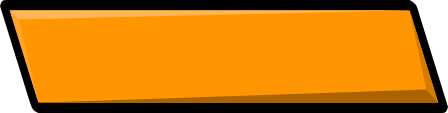
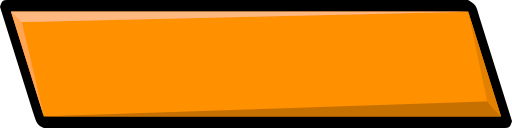
Fix up spacing issues - NPoT textures were messing up border spacing - Borders were defined as the wrong size - Padding is now also scale-dependent

diff --git a/src/guiengine/widgets/ribbon_widget.cpp b/src/guiengine/widgets/ribbon_widget.cpp
@@ -162,16 +162,16 @@ void RibbonWidget::add()
     for (int i=0; i<subbuttons_amount; i++)
     {
         // Get these ints for easy later use
-        const int VERT_MARGIN   = round(SkinConfig::getValue(SkinConfig::MARGIN, WTYPE_RIBBON, getRibbonType(), SkinConfig::VERTICAL));
-        const int VERT_PADDING  = round(SkinConfig::getValue(SkinConfig::PADDING, WTYPE_RIBBON, getRibbonType(), SkinConfig::VERTICAL));
+        const int HORZ_MARGIN  = round(SkinConfig::getValue(SkinConfig::MARGIN, WTYPE_RIBBON, getRibbonType(), SkinConfig::HORIZONTAL));
+        const int VERT_MARGIN  = round(SkinConfig::getValue(SkinConfig::MARGIN, WTYPE_RIBBON, getRibbonType(), SkinConfig::VERTICAL));
 
         int TOP_BORDER    = round(SkinConfig::getValue(SkinConfig::BORDER, WTYPE_RIBBON, getRibbonType(), SkinConfig::TOP));
         int BOTTOM_BORDER = round(SkinConfig::getValue(SkinConfig::BORDER, WTYPE_RIBBON, getRibbonType(), SkinConfig::BOTTOM));
         int LEFT_BORDER   = round(SkinConfig::getValue(SkinConfig::BORDER, WTYPE_RIBBON, getRibbonType(), SkinConfig::LEFT));
         int RIGHT_BORDER  = round(SkinConfig::getValue(SkinConfig::BORDER, WTYPE_RIBBON, getRibbonType(), SkinConfig::RIGHT));
 
-        const int HORZ_MARGIN   = round(SkinConfig::getValue(SkinConfig::MARGIN, WTYPE_RIBBON, getRibbonType(), SkinConfig::HORIZONTAL));
-        const int HORZ_PADDING  = round(SkinConfig::getValue(SkinConfig::PADDING, WTYPE_RIBBON, getRibbonType(), SkinConfig::HORIZONTAL));
+        int HORZ_PADDING  = round(SkinConfig::getValue(SkinConfig::PADDING, WTYPE_RIBBON, getRibbonType(), SkinConfig::HORIZONTAL));
+        int VERT_PADDING  = round(SkinConfig::getValue(SkinConfig::PADDING, WTYPE_RIBBON, getRibbonType(), SkinConfig::VERTICAL));
 
         // ---- tab ribbons
         if (getRibbonType() == RIBBON_TABS)
@@ -199,9 +199,6 @@ void RibbonWidget::add()
 
             rect<s32> tab_rect_abs;
 
-            Log::info("QCDebug", "VERT_MARGIN: %i", VERT_MARGIN);
-            Log::info("QCDebug", "HORZ_MARGIN: %i", HORZ_MARGIN);
-
             if (message.size() == 0)
             {
                 tab_rect_abs = rect<s32>(widget_x - small_tab/2 + HORZ_MARGIN, VERT_MARGIN,
@@ -213,11 +210,25 @@ void RibbonWidget::add()
                                          widget_x + large_tab/2 - HORZ_MARGIN, m_h - VERT_MARGIN);
             }
 
-            // Once height is available to us, adjust for border scaling
-            //TOP_BORDER    = round( GUIEngine::getSkin()->getScalingFactor("tab::neutral", tab_rect_abs.getHeight()) * (float)TOP_BORDER    );
-            //BOTTOM_BORDER = round( GUIEngine::getSkin()->getScalingFactor("tab::neutral", tab_rect_abs.getHeight()) * (float)BOTTOM_BORDER );
-            //LEFT_BORDER   = round( GUIEngine::getSkin()->getScalingFactor("tab::neutral", tab_rect_abs.getHeight()) * (float)LEFT_BORDER   );
-            //RIGHT_BORDER  = round( GUIEngine::getSkin()->getScalingFactor("tab::neutral", tab_rect_abs.getHeight()) * (float)RIGHT_BORDER  );
+            // Once height is available to us, adjust for scaling
+            TOP_BORDER    = round( GUIEngine::getSkin()->getScalingFactor("tab::neutral", tab_rect_abs.getHeight()) * (float)TOP_BORDER    );
+            BOTTOM_BORDER = round( GUIEngine::getSkin()->getScalingFactor("tab::neutral", tab_rect_abs.getHeight()) * (float)BOTTOM_BORDER );
+            LEFT_BORDER   = round( GUIEngine::getSkin()->getScalingFactor("tab::neutral", tab_rect_abs.getHeight()) * (float)LEFT_BORDER   );
+            RIGHT_BORDER  = round( GUIEngine::getSkin()->getScalingFactor("tab::neutral", tab_rect_abs.getHeight()) * (float)RIGHT_BORDER  );
+
+            HORZ_PADDING  = round( GUIEngine::getSkin()->getScalingFactor("tab::neutral", tab_rect_abs.getHeight()) * (float)HORZ_PADDING );
+            VERT_PADDING  = round( GUIEngine::getSkin()->getScalingFactor("tab::neutral", tab_rect_abs.getHeight()) * (float)VERT_PADDING );
+
+            Log::info("QCDebug", "VERT_MARGIN:   %i", VERT_MARGIN);
+            Log::info("QCDebug", "HORZ_MARGIN:   %i", HORZ_MARGIN);
+
+            Log::info("QCDebug", "TOP_BORDER:    %i", TOP_BORDER);
+            Log::info("QCDebug", "BOTTOM_BORDER: %i", BOTTOM_BORDER);
+            Log::info("QCDebug", "LEFT_BORDER:   %i", LEFT_BORDER);
+            Log::info("QCDebug", "RIGHT_BORDER:  %i", RIGHT_BORDER);
+
+            Log::info("QCDebug", "VERT_PADDING:  %i", VERT_PADDING);
+            Log::info("QCDebug", "HORZ_PADDING:  %i", HORZ_PADDING);
 
             // Used to position sub-elements, coords needs to be relative to tab_rect_abs
             rect<s32> tab_contents_rect = rect<s32>(LEFT_BORDER + HORZ_PADDING,
@@ -327,19 +338,33 @@ void RibbonWidget::add()
             IGUIButton * tab = NULL;
 
             rect<s32> tab_rect_abs = rect<s32>(widget_x - (tab_width/2) - HORZ_MARGIN, widget_y + VERT_MARGIN,
-                                             widget_x + (tab_width/2) + HORZ_MARGIN, widget_y + one_button_height - VERT_MARGIN);
+                                               widget_x + (tab_width/2) + HORZ_MARGIN, widget_y + one_button_height - VERT_MARGIN);
 
-            // Once height is available to us, adjust for border scaling
-            TOP_BORDER    *= GUIEngine::getSkin()->getScalingFactor("verticalTab::neutral", tab_rect_abs.getHeight());
-            BOTTOM_BORDER *= GUIEngine::getSkin()->getScalingFactor("verticalTab::neutral", tab_rect_abs.getHeight());
-            LEFT_BORDER   *= GUIEngine::getSkin()->getScalingFactor("verticalTab::neutral", tab_rect_abs.getHeight());
-            RIGHT_BORDER  *= GUIEngine::getSkin()->getScalingFactor("verticalTab::neutral", tab_rect_abs.getHeight());
+            // Once height is available to us, adjust for scaling
+            TOP_BORDER    = round( GUIEngine::getSkin()->getScalingFactor("verticalTab::neutral", tab_rect_abs.getHeight()) * (float)TOP_BORDER    );
+            BOTTOM_BORDER = round( GUIEngine::getSkin()->getScalingFactor("verticalTab::neutral", tab_rect_abs.getHeight()) * (float)BOTTOM_BORDER );
+            LEFT_BORDER   = round( GUIEngine::getSkin()->getScalingFactor("verticalTab::neutral", tab_rect_abs.getHeight()) * (float)LEFT_BORDER   );
+            RIGHT_BORDER  = round( GUIEngine::getSkin()->getScalingFactor("verticalTab::neutral", tab_rect_abs.getHeight()) * (float)RIGHT_BORDER  );
+
+            HORZ_PADDING  = round( GUIEngine::getSkin()->getScalingFactor("verticalTab::neutral", tab_rect_abs.getHeight()) * (float)HORZ_PADDING  );
+            VERT_PADDING  = round( GUIEngine::getSkin()->getScalingFactor("verticalTab::neutral", tab_rect_abs.getHeight()) * (float)VERT_PADDING  );
+
+            Log::info("QCDebug", "VERT_MARGIN:   %i", VERT_MARGIN);
+            Log::info("QCDebug", "HORZ_MARGIN:   %i", HORZ_MARGIN);
+
+            Log::info("QCDebug", "TOP_BORDER:    %i", TOP_BORDER);
+            Log::info("QCDebug", "BOTTOM_BORDER: %i", BOTTOM_BORDER);
+            Log::info("QCDebug", "LEFT_BORDER:   %i", LEFT_BORDER);
+            Log::info("QCDebug", "RIGHT_BORDER:  %i", RIGHT_BORDER);
+
+            Log::info("QCDebug", "VERT_PADDING:  %i", VERT_PADDING);
+            Log::info("QCDebug", "HORZ_PADDING:  %i", HORZ_PADDING);
 
             // Used to position sub-elements, coords needs to be relative to tab_rect_abs
             rect<s32> tab_contents_rect = rect<s32>(LEFT_BORDER + HORZ_PADDING,
-                                                      TOP_BORDER  + VERT_PADDING,
-                                                      tab_rect_abs.getWidth()  - RIGHT_BORDER  - HORZ_PADDING,
-                                                      tab_rect_abs.getHeight() - BOTTOM_BORDER - VERT_PADDING);
+                                                    TOP_BORDER  + VERT_PADDING,
+                                                    tab_rect_abs.getWidth()  - RIGHT_BORDER  - HORZ_PADDING,
+                                                    tab_rect_abs.getHeight() - BOTTOM_BORDER - VERT_PADDING);
 
             Log::info("tab_rect_abs     ", "X1: %i, Y1: %i, X2: %i, Y2: %i", tab_rect_abs.UpperLeftCorner.X, tab_rect_abs.UpperLeftCorner.Y, tab_rect_abs.LowerRightCorner.X, tab_rect_abs.LowerRightCorner.Y);
             Log::info("tab_contents_rect", "X1: %i, Y1: %i, X2: %i, Y2: %i", tab_contents_rect.UpperLeftCorner.X, tab_contents_rect.UpperLeftCorner.Y, tab_contents_rect.LowerRightCorner.X, tab_contents_rect.LowerRightCorner.Y);
@@ -382,9 +407,6 @@ void RibbonWidget::add()
                                                           false /* border */,
                                                           true /* word wrap */,
                                                           tab, same_id);
-
-Log::info("QCTest font", "Label hight: %i", (int)GUIEngine::getFont()->getDimension(message.c_str()).Height);
-Log::info("QCTest font", "Label max hight: %i", label_part.getHeight());
 
                 if (((int)GUIEngine::getFont()->getDimension(message.c_str())
                                               .Width > label_part.getWidth() &&
